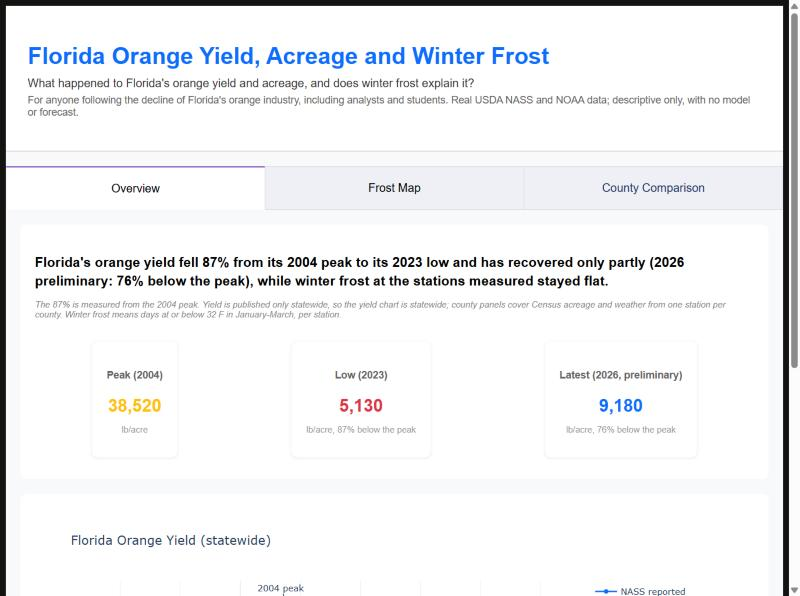
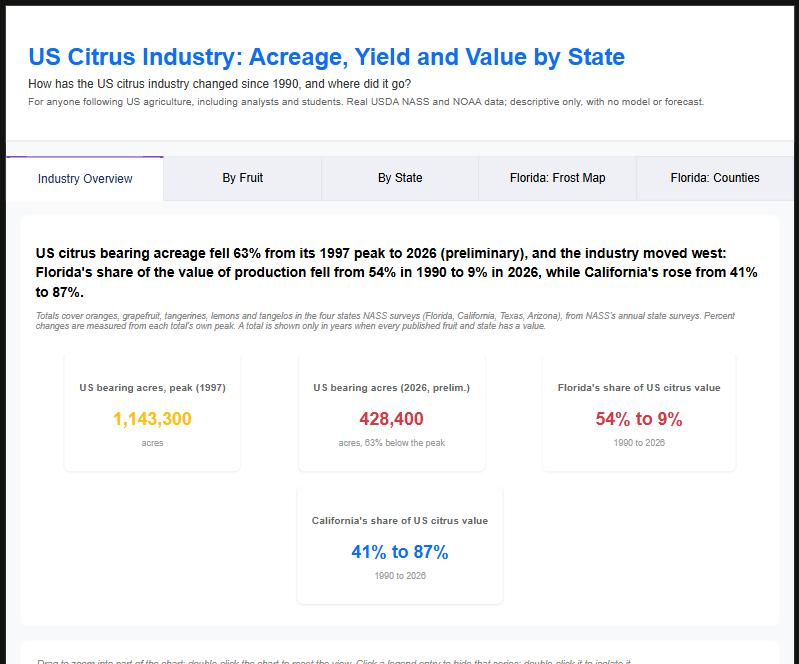
Rewrite the docs for the US citrus industry scope; new screenshot

diff --git a/README.md b/README.md
@@ -1,39 +1,42 @@
-# Florida Orange Yield, Acreage and Winter Frost
+# US Citrus Industry: Acreage, Yield and Value by State
 
-![Dashboard overview: the yield headline and statewide yield chart](docs/screenshot.jpg)
+![Dashboard overview: the headline, acreage peak and latest, and each state's share of the value](docs/screenshot.jpg)
 
-A dashboard of Florida orange yield, county acreage and winter frost by weather station, built from public data from the USDA's National Agricultural Statistics Service (NASS) and NOAA (the National Oceanic and Atmospheric Administration). It asks one question: **what happened to Florida's orange yield and acreage, and does winter frost explain it?** It is for anyone following the decline of Florida's orange industry, including analysts and students.
+A dashboard of the US citrus industry since 1990: bearing acreage, yield, price and value of production for oranges, grapefruit, tangerines, lemons and tangelos in the four states USDA surveys (Florida, California, Texas and Arizona), with a closer look inside Florida's orange industry (winter frost by weather station and county acreage). It is built from public data from the USDA's National Agricultural Statistics Service (NASS) and NOAA (the National Oceanic and Atmospheric Administration). It asks one question: **how has the US citrus industry changed since 1990, and where did it go?** It is for anyone following US agriculture, including analysts and students.
 
 **Live dashboard:** <https://florida-orange-yield-dashboard.onrender.com/> (free tier: the first load after idle can take about 40 seconds)
 
 ## What the data shows
 
-- **Florida's orange yield fell 87% from its 2004 peak (38,520 lb/acre) to its 2023 low (5,130), and has recovered only partly.** 2024 was 7,020, 2025 was 6,570, and 2026 is a preliminary 9,180, still 76% below the peak. The 87% is measured from the 2004 peak.
-- **Bearing orange acreage fell 37% to 47% in every county with published Census totals:** Polk -46.5% (2002-2022), DeSoto -37.3% (2002-2022), Hendry -44.7% (2012-2022), Highlands -46.3% (2002-2017). The periods differ because USDA withheld some totals.
-- **Winter frost did not rise at the four stations measured.** Bloom-season frost days (January-March nights at or below 32 F) trend between about -0.5 and +0.5 days per decade at each station. Frost varies far more between stations (a mean of 1.0 to 6.5 days a year) than over time, and the cold winter of 2010 is the worst at the three stations with a complete record for it.
+- **US citrus bearing acreage fell 63% from its 1997 peak,** from 1,143,300 acres to 428,400 in 2026 (preliminary), across the four states and five fruits.
+- **The industry moved west.** Florida's share of the value of production fell from 54% in 1990 to 9% in 2026, while California's rose from 41% to 87%. Shares compare states in the same year, so inflation does not affect them.
+- **Florida lost most of its citrus.** Its bearing acres fell 82% from the 1997 peak (805,900 to 144,900), and its value of production fell 86% from its 2012 peak ($2.09 billion to $0.30 billion, in nominal dollars). California's acreage is down only 4% from its 1999 peak, and its value is at its highest in 2026.
+- **The mix of fruit changed.** Tangerine acreage grew from 19,800 to 74,300 acres (1990 to 2026), and tangerines are now the highest-value fruit ($1.26 billion in 2026, against $0.98 billion for oranges, in nominal dollars), with lemons also up. Orange acreage is down 56% from 1990 and grapefruit acreage 82%.
+- **Inside Florida, orange yield fell 87%** from its 2004 peak (428 boxes per acre) to its 2023 low (57), and was 102 in 2026 (preliminary). **Winter frost did not rise** at the four weather stations measured: bloom-season frost days trend between about -0.5 and +0.5 days per decade at each. Frost is shown next to the decline but is not tested as a cause. Citrus greening disease (HLB) and hurricane damage are not analyzed here.
 
-Frost is shown next to the yield decline but is not tested as a cause. Citrus greening disease (HLB) and hurricane damage are not analyzed here.
+Dollar values are nominal (not adjusted for inflation), so the dashboard compares dollars across decades only through shares.
 
 ## What the dashboard shows
 
-1. **Overview:** the headline, peak, low and latest yield, and the statewide yield chart. The newest season is drawn as a hollow, dashed point because NASS publishes it as a preliminary estimate.
-2. **Frost Map:** a map of the four weather stations. Marker color and size show mean bloom-season frost days, and hovering shows the station, its county, the winters counted and the trend.
-3. **County Comparison:** frost by station over time, Census bearing acreage by county, and a year-by-year panel (frost, summer heat and growing degree days, a measure of accumulated heat).
+1. **Industry Overview:** the headline, US bearing acres by state, each state's share of US value, and value of production by fruit.
+2. **By Fruit:** pick a fruit and a measure (bearing acres, yield, yield as a share of each state's own peak, utilized production, value, or price per box) and see every state that grows it.
+3. **By State:** pick a state and see its acreage and value by fruit.
+4. **Florida: Frost Map** and **Florida: Counties:** the Florida deep dive. A map of four weather stations sized and colored by mean frost days, frost by station over time, Census bearing acreage for Polk, Hendry, DeSoto and Highlands, and a year-by-year panel of frost, summer heat and growing degree days (a measure of accumulated heat).
 
 ## Data
 
 | Dataset | Source | Details |
 |---|---|---|
-| Statewide orange yield | USDA NASS QuickStats | 1990-2026, 37 seasons, converted to lb/acre at 90 lb per box. NASS labels a season by its end year (2023 is the 2022-23 season). 2026 is preliminary. |
-| County bearing acreage | USDA Census of Agriculture | Oranges, all varieties, 2002, 2007, 2012, 2017, 2022. Polk, Hendry, DeSoto and Highlands: 20 county-years, 16 published and 4 withheld by USDA (left blank). Plus every Florida county, to check the county choice. |
-| Weather | NOAA daily records (GHCND, the Global Historical Climatology Network daily dataset) | Daily highs, lows and rainfall, 1990-2026, from one station per county (below). |
+| Citrus by fruit and state | USDA NASS QuickStats, state surveys | Oranges, grapefruit, tangerines, lemons, tangelos; Florida, California, Texas, Arizona; 1990-2026; bearing acres, yield, utilized production, value of production, price per box. 2,483 values. NASS labels a season by its end year (2023 is the 2022-23 season). 2026 is preliminary. |
+| County bearing acreage | USDA Census of Agriculture | Oranges, 2002-2022 (every five years): Polk, Hendry, DeSoto, Highlands (20 county-years, 16 published and 4 withheld), plus every Florida county to check the county choice. |
+| Weather | NOAA daily records (GHCND, the Global Historical Climatology Network daily dataset) | Daily highs, lows and rainfall, 1990-2026, from one station per Florida county: Polk (Lakeland 2), Hendry (Moore Haven Lock 1, which NOAA lists in neighboring Glades County), DeSoto (Arcadia), Highlands (Archbold Biological Station). |
 | Station locations | NOAA station metadata | Coordinates and county as NOAA lists them. |
 
-The weather stations: **Polk** (Lakeland 2), **Hendry** (Moore Haven Lock 1, which NOAA lists in neighboring Glades County), **DeSoto** (Arcadia) and **Highlands** (Archbold Biological Station). All data are real observations; none is synthetic. All files were pulled on 2026-11-03. Why these stations and counties is in [docs/METHODOLOGY.md](docs/METHODOLOGY.md).
+All data are real observations; none is synthetic. All files were pulled on 2026-11-03. How the data were checked, and the rules for totals and gaps, are in [docs/METHODOLOGY.md](docs/METHODOLOGY.md).
 
 ## Missing and withheld data
 
-Nothing is estimated or filled in. USDA withheld four county acreage totals (Hendry 2002 and 2007, DeSoto 2012, Highlands 2022); they appear as gaps. Frost is counted for a winter only if every January-March night was observed, so stations have different numbers of counted winters (24 to 37 of 37), and the chart legend and map hover show the count. Blanks appear as gaps or as *missing*, never as zero.
+Nothing is estimated or filled in. Of the 2,483 citrus values, 63 are blank: NASS withheld 48 and marked 15 not available, mostly California and Arizona value and price figures for tangerines and lemons in 2009-2016. A total is shown only in years when every published fruit and state has a value, so the value totals have a visible gap in 1991 and 2009-2016, and the acreage total in 2010-2012. One published value is shown as a gap: **NASS's QuickStats gives California's 2022 orange yield as 58 boxes per acre, but its own production and acreage in the same database imply about 285, and NASS's [Citrus Fruits 2022 Summary](https://esmis.nal.usda.gov/sites/default/release-files/j9602060k/pn89ff24k/1544cx74m/cfrt0922.txt) prints 289.** The published value stays in the data file. In Florida, USDA withheld four county acreage totals (Hendry 2002 and 2007, DeSoto 2012, Highlands 2022), shown as gaps, and weather features are left blank when too many days are missing.
 
 ## Run it
 
@@ -51,8 +54,8 @@ Requires Python 3.12 or newer (the pinned numpy needs it); `requirements.txt` is
 export NASS_KEY=your-nass-key           # PowerShell: $env:NASS_KEY = "your-nass-key"
 export NOAA_API_KEY=your-noaa-token
 
-python src/fetch_data.py                 # statewide yield
-python src/fetch_county_data.py          # county acreage, station weather and locations (about 10 minutes)
+python src/fetch_industry_data.py        # citrus by fruit and state, with a sanity report
+python src/fetch_county_data.py          # Florida county acreage, station weather and locations (about 10 minutes)
 python src/county_feature_engineering.py # -> data/county_features.csv and the frost summary
 python src/fetch_county_ranking.py       # optional: every county's Census acreage
 python src/station_coverage.py           # optional: re-probe station coverage (about 15 minutes)
@@ -62,25 +65,26 @@ A failed API call stops a script and writes nothing.
 
 ## Known limitations
 
-- **Stations, not counties.** Each weather series is one station. Archbold is a notably cold site (open scrub), so its frost counts are not representative of nearby groves, and Moore Haven Lock 1 sits in Glades County, not Hendry. Read frost differences as differences between stations.
-- **Station records have gaps.** Polk's station starts in late 1995, DeSoto's ends in April 2021, and Hendry's frost record ends in 2020. Polk's 2010 winter, the coldest at the other stations, is incomplete.
-- **Yield is statewide only.** QuickStats has no county orange yield. NASS's Citrus Summary lists county production, but as an apportionment of the statewide harvest, so no county yield is shown or estimated.
-- **The 2026 yield is preliminary** and NASS revises it a year later.
-- **Four counties, not all.** They are the four largest by bearing orange acres in the 2017 Census. Hardee, fifth in 2017 and fourth in 2022, is not included; its weather stations were not assessed.
-- **Frost is not drawn on the yield chart,** because frost years are calendar years and NASS seasons are labeled by their end year.
-- **Weather is not the only possible explanation.** The data cannot separate frost from disease, hurricanes or land use.
+- **Dollars are nominal.** They are not adjusted for inflation, so only shares and physical measures (acres, boxes) are compared across decades. Dollar totals use NASS's packinghouse-door equivalent basis.
+- **Four states.** NASS surveys citrus in Florida, California, Texas and Arizona. Arizona's oranges stop in 2012, grapefruit in 2009 and tangerines in 2015, and other states appear only in the Census.
+- **Gaps in the totals** (above) mean some peaks and trends cannot be read across 2009-2016.
+- **Box weights differ by state,** so yield is compared as a change over time or a share of each state's own peak, not as raw boxes per acre across states. Markets differ too (for example, how much fruit is sold fresh and how much is juiced); that is not measured here.
+- **The 2026 values are preliminary** and NASS revises them a year later.
+- **Florida weather is stations, not counties.** Archbold is a notably cold site, Moore Haven Lock 1 is in Glades County, not Hendry, and Polk's station starts in late 1995 while DeSoto's ends in April 2021. Winters count only if every night was observed, so stations have 24 to 37 counted winters of 37.
+- **Descriptive only.** The data cannot separate frost from disease, hurricanes, land use or markets as causes of change.
 
 ## Tests
 
-`pytest` runs small checks on the frost counting, the missing-data rules (blank, never zero), growing degree days, rolling rainfall windows, the frost summary, and the committed data (withheld acreage stays blank, the latest yield season is marked preliminary, the county choice matches the Census ranking). CI runs them on every push.
+`pytest` runs small checks on the totals rule (a total is blank when a part is missing), the yield cross-check, the frost counting and missing-data rules (blank, never zero), growing degree days, rolling rainfall windows, and the committed data (one row per series and year, 2026 marked preliminary, withheld values stay blank, the only conflicting yield is California oranges 2022, the county choice matches the Census ranking). CI runs them on every push.
 
 ## Project structure
 
 ```
-src/        fetch_data, fetch_county_data, fetch_county_ranking, feature_engineering,
-            county_feature_engineering, station_coverage, app (Dash dashboard)
-tests/      feature-engineering and data tests
-data/       yield, county acreage, station weather and locations, frost summary
+src/        fetch_industry_data, citrus_data (totals and checks), app (Dash dashboard),
+            fetch_data (shared fetch helpers), fetch_county_data, fetch_county_ranking,
+            feature_engineering, county_feature_engineering, station_coverage
+tests/      citrus, feature-engineering and data tests
+data/       citrus by state, Florida county acreage, station weather and locations, frost summary
 docs/       METHODOLOGY, SCHEMA, API_SOURCES, citations
 ```
 

diff --git a/docs/METHODOLOGY.md b/docs/METHODOLOGY.md
@@ -6,16 +6,48 @@ Terms: **NASS** (USDA National Agricultural Statistics Service); **NOAA** (Natio
 
 ## Scope
 
-The project describes Florida orange yield, county acreage and winter frost by weather station. It builds no model and makes no forecast. Yield is published only statewide, so it is shown statewide; the county panels show Census bearing acreage and weather from one NOAA station per county.
+The project describes the US citrus industry by fruit and state (bearing acreage, yield, utilized production, price and value of production, 1990-2026) and, as a deep dive, Florida orange acreage by county and winter frost by weather station. It builds no model and makes no forecast.
 
-## Data sources and pull dates
+## Citrus data (NASS)
 
-All files were pulled on 2026-11-03 and are real observations; none is synthetic. NOAA can backfill published data, and NASS revises its newest season a year later, so treat each pull as a snapshot of its date.
+`src/fetch_industry_data.py` pulls state-level survey data from QuickStats (`agg_level_desc=STATE`, `source_desc=SURVEY`) for oranges, grapefruit, tangerines, lemons and tangelos, for Florida, California, Texas and Arizona, and writes `data/citrus_by_state.csv` (one row per fruit, state, year and measure). All files were pulled on 2026-11-03 and are real observations; none is synthetic. NASS revises its newest season a year later, so treat each pull as a snapshot of its date.
 
-1. **Yield** (`src/fetch_data.py`): QuickStats `ORANGES`, `YIELD`, `BOXES / ACRE`, all classes, state level, 1990-2026, times 90 lb per box (the standard Florida orange box). The fetcher requires every year to be present. NASS labels a season by its end year: 2023 is the 2022-23 season. The season ending in 2026 is NASS's preliminary estimate (published August 2026), marked `status = preliminary`; all earlier seasons are `reported`.
-2. **County acreage** (`src/fetch_county_data.py`): Census of Agriculture bearing orange acres, all varieties combined, 2002, 2007, 2012, 2017 and 2022. `src/fetch_county_ranking.py` fetches the same figure for every Florida county, to check the county choice.
-3. **Weather** (`src/fetch_county_data.py`): daily TMAX, TMIN and PRCP from NOAA's Climate Data Online API. Readings outside plausible Florida bounds (TMAX 20-110 F, TMIN -5-85 F, PRCP 0-20 in) are dropped as sensor errors; this removed 7 of 145,827 records (Lakeland 2: 2, Arcadia: 4, Moore Haven Lock 1: 1).
-4. **Station locations:** coordinates and county come from NOAA's station metadata, fetched with the weather (not typed by hand). The county is the Florida county whose NOAA station list contains the station.
+| Measure | QuickStats statistic and unit | Notes |
+|---|---|---|
+| Bearing acres | `AREA BEARING`, `ACRES` | |
+| Yield | `YIELD`, `BOXES / ACRE` | Florida oranges also carry a gallons-per-box series; only boxes per acre is used |
+| Utilized production | `PRODUCTION`, `BOXES` and `TONS`, utilization `UTILIZED` | Boxes cover 1990-2026; tons exist only for recent years, so tons are fetched but not used for totals |
+| Value of production | `PRODUCTION`, `$, PHD EQUIV` | Packinghouse-door equivalent dollars, nominal |
+| Price per box | `PRICE RECEIVED`, `$ / BOX, PHD EQUIV`, marketing year | |
+
+Only the all-classes total is used (not single varieties or fresh/processing splits), and the script stops if a state-year has more than one row.
+
+- **Seasons.** NASS labels a season by its end year (2023 is the 2022-23 season). The season ending in 2026 is NASS's preliminary estimate (published August 2026) and is marked `status = preliminary`; all earlier seasons are `reported`.
+- **Forecast rows are dropped.** QuickStats can return NASS's forecast for the coming season even when the request stops at 2026 (it returned 22 production rows for the season ending in 2027, issued October 2026). A forecast is not data, so anything after the last season is dropped, the drop is printed, and a test checks the file.
+- **Blanks stay blank.** A value NASS withheld ("(D)") or marked not available is kept as a blank row with the reason in the `note` column. Of 2,483 values, 63 are blank (48 withheld, 15 not available), mostly California and Arizona value and price figures for tangerines and lemons in 2009-2016 and Arizona oranges in 2010-2012. Texas has no 1991 row at all for oranges or grapefruit.
+
+## Totals and gaps
+
+A total (for a year, a state or a fruit) is shown only when every series NASS publishes in that year has a value. A series counts as published in a year if the year falls between its first and last published year (`src/citrus_data.py`). So a withheld value, a missing year (Texas 1991) or a series that has not started leaves a visible gap, while a series that has ended (Arizona oranges after 2012) simply stops being part of the total. Stacked charts leave a whole year empty instead of drawing a partial stack. Consequences: the acreage total has a gap in 2010-2012, and the value totals in 1991 and 2009-2016. A published sum for 2012 is already $3.42 billion with four values missing, so the true 2012 total could exceed 2017's $3.53 billion; **the dashboard therefore states no peak for the US value total.** Acreage peaks and per-state figures use each total's own complete years.
+
+## Checks on the data
+
+- **Yield against production and acreage.** NASS defines yield as utilized boxes divided by bearing acres, and in the data the two agree. The fetch compares every published yield with that ratio (463 fruit-state-years) and flags any that differ by more than 15%. **One does: California oranges in 2022.** QuickStats publishes 58 boxes per acre, but the same database gives 39.1 million utilized boxes and 137,000 bearing acres for 2022, which imply about 285 (the 2022 crop fell about 20% from 2021 in a drought year, but not to 58). NASS's printed [Citrus Fruits 2022 Summary](https://esmis.nal.usda.gov/sites/default/release-files/j9602060k/pn89ff24k/1544cx74m/cfrt0922.txt) (September 2022, table "Orange Acreage, Yield, Utilization, Price, and Value by Type") gives California all oranges for 2021-22 as 140,000 acres, 289 boxes per acre and 40,400 thousand boxes, with later revisions to the production and acreage figures. The published 58 is therefore at odds with the printed report and with two other values in QuickStats. It stays in the data file; the dashboard draws it as a gap with a footnote, and does not substitute a computed value. How the error entered QuickStats is not known.
+- **Other unusual values.** The fetch also prints yields and prices more than three times away from their own series' median. The ones examined (Florida after 2023, Texas 1992) agree with NASS's production and acreage: Florida's collapse and the Texas freeze-year lows are real, not data errors.
+
+## Nominal dollars, shares and units
+
+- **Dollars are nominal.** Value of production and price are not adjusted for inflation, so dollar values are not compared across decades as if they bought the same amount. Each state's **share** of the US value in the same year is unaffected by inflation, so the headline uses shares and physical measures (acres, boxes) for change over time. An inflation adjustment would need a price index from another source and is not applied.
+- **Yield units differ by state.** Box weights differ across states, so raw boxes per acre are not comparable across states. The dashboard offers yield as a share of each state's own peak, and notes this on the yield chart.
+- **Dollars add up, boxes do not.** Different fruits and states have different box weights, so totals across them use acres and dollars only.
+
+## Florida data (county acreage and weather)
+
+1. **County acreage** (`src/fetch_county_data.py`): Census of Agriculture bearing orange acres, all varieties combined, 2002, 2007, 2012, 2017 and 2022. `src/fetch_county_ranking.py` fetches the same figure for every Florida county, to check the county choice.
+2. **Weather** (`src/fetch_county_data.py`): daily TMAX, TMIN and PRCP from NOAA's Climate Data Online API, 1990-2026. Readings outside plausible Florida bounds (TMAX 20-110 F, TMIN -5-85 F, PRCP 0-20 in) are dropped as sensor errors; this removed 7 of 145,827 records (Lakeland 2: 2, Arcadia: 4, Moore Haven Lock 1: 1).
+3. **Station locations:** coordinates and county come from NOAA's station metadata, fetched with the weather (not typed by hand). The county is the Florida county whose NOAA station list contains the station.
+
+The sections below cover the Florida deep dive.
 
 ## Counties and stations
 
@@ -93,6 +125,6 @@ Bearing acreage comes from the Census of Agriculture every five years and is lef
 
 ## Reproducibility
 
-API keys are read from the `NASS_KEY` and `NOAA_API_KEY` (or `NOAA_TOKEN`) environment variables; nothing is stored in the code. Every fetcher retries transient failures, then stops and writes nothing if any request fails, any Census acreage query returns other than exactly one row, a county station has data in fewer than 20 years, or NOAA lists no Florida county for a station. Years in which a station has no observations are reported and left blank.
+API keys are read from the `NASS_KEY` and `NOAA_API_KEY` (or `NOAA_TOKEN`) environment variables; nothing is stored in the code. Every fetcher retries transient failures, then stops and writes nothing if any request fails, any Census acreage query returns other than exactly one row, a state-year has more than one citrus row, a county station has data in fewer than 20 years, or NOAA lists no Florida county for a station. Years in which a station has no observations are reported and left blank.
 
-What was run: all four fetch scripts and the feature step ran end to end on Python 3.14 / pandas 3.0 on 2026-11-03, and the committed data files are their output. Tests (`tests/`, run in CI on Python 3.13 and 3.14) cover the feature code, the frost summary, the helper functions and the committed data; they do not cover the API fetchers or the dashboard. `requirements.txt` is pinned and was installed in a clean Python 3.14 environment.
+What was run: the citrus, county and ranking fetches, the feature step and the coverage probe ran end to end on Python 3.14 / pandas 3.x on 2026-11-03, and the committed data files are their output. Tests (`tests/`, run in CI on Python 3.13 and 3.14) cover the totals rule, the yield cross-check, the feature code, the frost summary, the helper functions and the committed data; they do not cover the API fetchers or the dashboard. `requirements.txt` is pinned and was installed in a clean Python 3.14 environment.

diff --git a/docs/API_SOURCES.md b/docs/API_SOURCES.md
@@ -1,19 +1,21 @@
 # API Sources and Notes
 
-How this project queries USDA NASS and NOAA, plus the non-obvious behaviors that cost time to discover. API keys are free; export them as the `NASS_KEY` and `NOAA_API_KEY` environment variables (`NOAA_TOKEN` is accepted as an alternative name for the NOAA key). Both fetch scripts read them at run time and stop with a clear message if they are unset; no key is stored in the code.
+How this project queries USDA NASS and NOAA, plus the non-obvious behaviors that cost time to discover. API keys are free; export them as the `NASS_KEY` and `NOAA_API_KEY` environment variables (`NOAA_TOKEN` is accepted as an alternative name for the NOAA key). The fetch scripts read them at run time and stop with a clear message if they are unset; no key is stored in the code.
 
 ## USDA NASS QuickStats
 
 Docs: <https://quickstats.nass.usda.gov/api>
 
-Statewide yield query (`src/fetch_data.py`):
+Citrus by state query (`src/fetch_industry_data.py`), one request per fruit and measure:
 
 ```
 GET https://quickstats.nass.usda.gov/api/api_GET/
-  key=<NASS_KEY>  commodity_desc=ORANGES  state_alpha=FL  agg_level_desc=STATE
-  statisticcat_desc=YIELD  unit_desc=BOXES / ACRE  class_desc=ALL CLASSES
-  util_practice_desc=ALL UTILIZATION PRACTICES  year__GE=1990  year__LE=2026  format=json
+  key=<NASS_KEY>  commodity_desc=<ORANGES|GRAPEFRUIT|TANGERINES|LEMONS|TANGELOS>  agg_level_desc=STATE
+  source_desc=SURVEY  statisticcat_desc=<AREA BEARING|YIELD|PRODUCTION|PRICE RECEIVED>  unit_desc=<see below>
+  year__GE=1990  year__LE=2026  format=json
 ```
+
+Units used: `ACRES`, `BOXES / ACRE`, `BOXES` and `TONS` (production, utilization `UTILIZED`), `$, PHD EQUIV` (value), `$ / BOX, PHD EQUIV` (price, reference period `MARKETING YEAR`). The script then keeps `class_desc=ALL CLASSES` and `domain_desc=TOTAL` rows.
 
 County bearing-acreage query (`src/fetch_county_data.py`; `src/fetch_county_ranking.py` runs the same query with `agg_level_desc=COUNTY` for every county): `commodity_desc=ORANGES`, `county_name=<POLK|HENDRY|DE SOTO|HIGHLANDS>`, `source_desc=CENSUS`, `year=<2002|2007|2012|2017|2022>`, `statisticcat_desc=AREA BEARING`, `unit_desc=ACRES`.
 
@@ -25,7 +27,10 @@ Things to know:
 - **The value field is `Value` (capital V).** Reading lowercase `value` silently yields nothing. Suppression codes such as `(D)` can arrive padded with whitespace.
 - **QuickStats has yield and production only at state level.** County-level rows for oranges and citrus totals cover Census area statistics only (`AREA BEARING`, `AREA NON-BEARING`); querying `PRODUCTION` or `YIELD` at county level returns HTTP 400. NASS's separate Citrus Summary publication does list county production, but states that it is an apportionment of the statewide harvest (by bearing trees, fruit per tree, and drop and size surveys), not a county measurement. The only yield unit is `BOXES / ACRE` (no `LB / ACRE`), converted here at 90 lb/box.
 - **One county-year returns several rows.** Besides `class_desc=ALL CLASSES` there are single-variety rows (`VALENCIA`, `MID & NAVEL`) and other domain rows, and their order is not guaranteed. Always filter `class_desc=ALL CLASSES` and `domain_desc=TOTAL`; taking "the first published row" can silently return a single variety that looks like a county total.
-- **The newest season is preliminary.** NASS loads the season ending in the current year (2026: 102 boxes/acre) as an August estimate and revises it a year later; `src/fetch_data.py` marks it `status = preliminary`.
+- **The newest season is preliminary.** NASS loads the season ending in the current year (2026) as an August estimate and revises it a year later; `src/fetch_industry_data.py` marks it `status = preliminary`.
+- **`year__LE` does not exclude forecasts.** QuickStats returned NASS's forecast for the coming season (year 2027 production, issued October 2026) even with `year__LE=2026`. The fetch drops rows after the last season and prints the drop.
+- **Several rows share a statistic.** Production comes in boxes, tons and dollars, and by utilization (`UTILIZED`, `FRESH MARKET`, `PROCESSING`); yield and price for Florida oranges also appear in other units (gallons per box; `ON TREE EQUIV`, `FOB`). Always filter `unit_desc`, `util_practice_desc`, `class_desc`, `domain_desc` and `reference_period_desc` (price is for the `MARKETING YEAR`, the others for `YEAR`).
+- **Check a yield against its parts.** QuickStats can contain a value that conflicts with NASS's own production and acreage (California oranges 2022 yield: 58, against about 285 implied). Compare yield with utilized boxes divided by bearing acres.
 - **`(D)` means withheld**, not zero or missing: NASS withholds the value to avoid disclosing individual operations' data. A total can be `(D)` while a single variety under it is published.
 - **County names follow NASS spelling:** DeSoto County is `DE SOTO`; `DESOTO` returns HTTP 400.
 - **An invalid parameter combination returns HTTP 400** (`bad request - invalid query`) without saying which parameter is wrong. Narrow the query to find it.

diff --git a/docs/SCHEMA.md b/docs/SCHEMA.md
@@ -4,15 +4,21 @@ All files are CSVs in `data/`. Temperatures are degrees F; raw precipitation is 
 
 ## Raw data
 
-### `data/nass_yield.csv` - 37 rows (1990-2026)
+### `data/citrus_by_state.csv` - 2,483 rows (1990-2026)
+
+One row per fruit, state, year and measure, from NASS state surveys (`src/fetch_industry_data.py`). Forecast rows for the coming season are dropped.
 
 | Column | Description |
 |---|---|
-| `county_name` | Always `Florida (Statewide)` (county yield is not published in QuickStats) |
+| `fruit` | Oranges, Grapefruit, Tangerines, Lemons, Tangelos |
+| `state` | `FL`, `CA`, `TX`, `AZ` (a fruit appears only in the states and years NASS publishes it) |
 | `year` | NASS season, labeled by its end year (2023 is the 2022-23 season) |
-| `yield_lbs_acre` | NASS `BOXES / ACRE` x 90 lb/box |
+| `measure` | `bearing_acres` (acres), `yield_boxes_per_acre`, `production_boxes` (utilized boxes), `production_tons` (utilized tons, recent years only), `value_of_production_usd` (nominal dollars, packinghouse-door equivalent), `price_usd_per_box` (marketing year, packinghouse-door equivalent) |
+| `value` | The published value. **Blank when NASS withheld it or marked it not available** |
+| `note` | Empty, or why the value is blank: `withheld (D)` or `not available (NA)` |
 | `status` | `reported`, or `preliminary` for the season ending in 2026 (NASS's August estimate, revised a year later) |
-| `data_source` | `NASS` |
+
+Blank values: 63 of 2,483 (48 withheld, 15 not available). A value is never estimated. One published value is flagged by the dashboard but not changed: `yield_boxes_per_acre` for California oranges in 2022 (58), which conflicts with NASS's own production and acreage (see [METHODOLOGY.md](METHODOLOGY.md#checks-on-the-data)).
 
 ### `data/county_acreage.csv` - 20 rows
 

diff --git a/docs/CITATIONS.md b/docs/CITATIONS.md
@@ -6,4 +6,5 @@
 - USDA National Agricultural Statistics Service. *Census of Agriculture* (2002, 2007, 2012, 2017, 2022). <https://www.nass.usda.gov/AgCensus/>
 - NOAA National Centers for Environmental Information. *Global Historical Climatology Network - Daily* (GHCN-Daily), accessed via the Climate Data Online v2 API. <https://www.ncei.noaa.gov/cdo-web/>
 - Menne, M. J., Durre, I., Vose, R. S., Gleason, B. E., & Houston, T. G. (2012). An overview of the Global Historical Climatology Network-Daily database. *Journal of Atmospheric and Oceanic Technology*, 29(7), 897-910.
+- USDA National Agricultural Statistics Service. *Citrus Fruits 2022 Summary* (September 2022), table "Orange Acreage, Yield, Utilization, Price, and Value by Type". <https://esmis.nal.usda.gov/sites/default/release-files/j9602060k/pn89ff24k/1544cx74m/cfrt0922.txt>
 - USDA National Agricultural Statistics Service, Florida Field Office. *Citrus Summary* (production by county, with its note on how county production is apportioned). <https://www.nass.usda.gov/Statistics_by_State/Florida/Publications/Citrus/>

diff --git a/RENDER_DEPLOYMENT.md b/RENDER_DEPLOYMENT.md
@@ -20,7 +20,7 @@ On the free tier the service sleeps when idle, so the first request after a paus
 
 The app reads `data/*.csv` at import time, so the files below must be committed. If a deploy crashes with `FileNotFoundError: data/...csv`, a required file is missing from the repo.
 
-The files the app loads: `data/nass_yield.csv`, `data/county_features.csv`, `data/stations.csv`, `data/station_frost_summary.csv`.
+The files the app loads: `data/citrus_by_state.csv`, `data/county_features.csv`, `data/stations.csv`, `data/station_frost_summary.csv`.
 
 ## Updating
 
